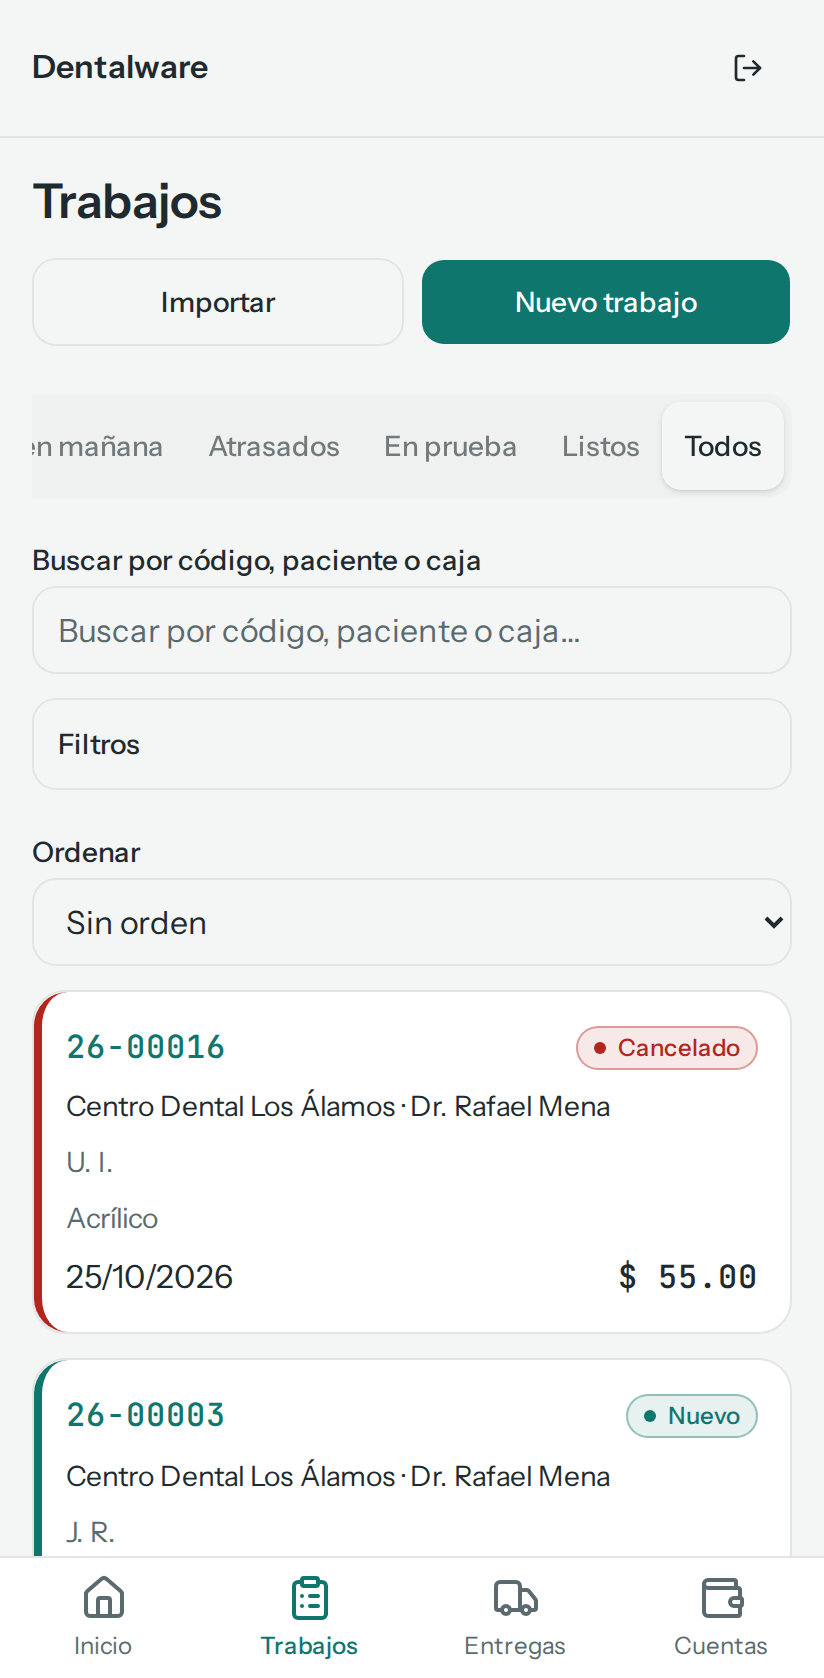
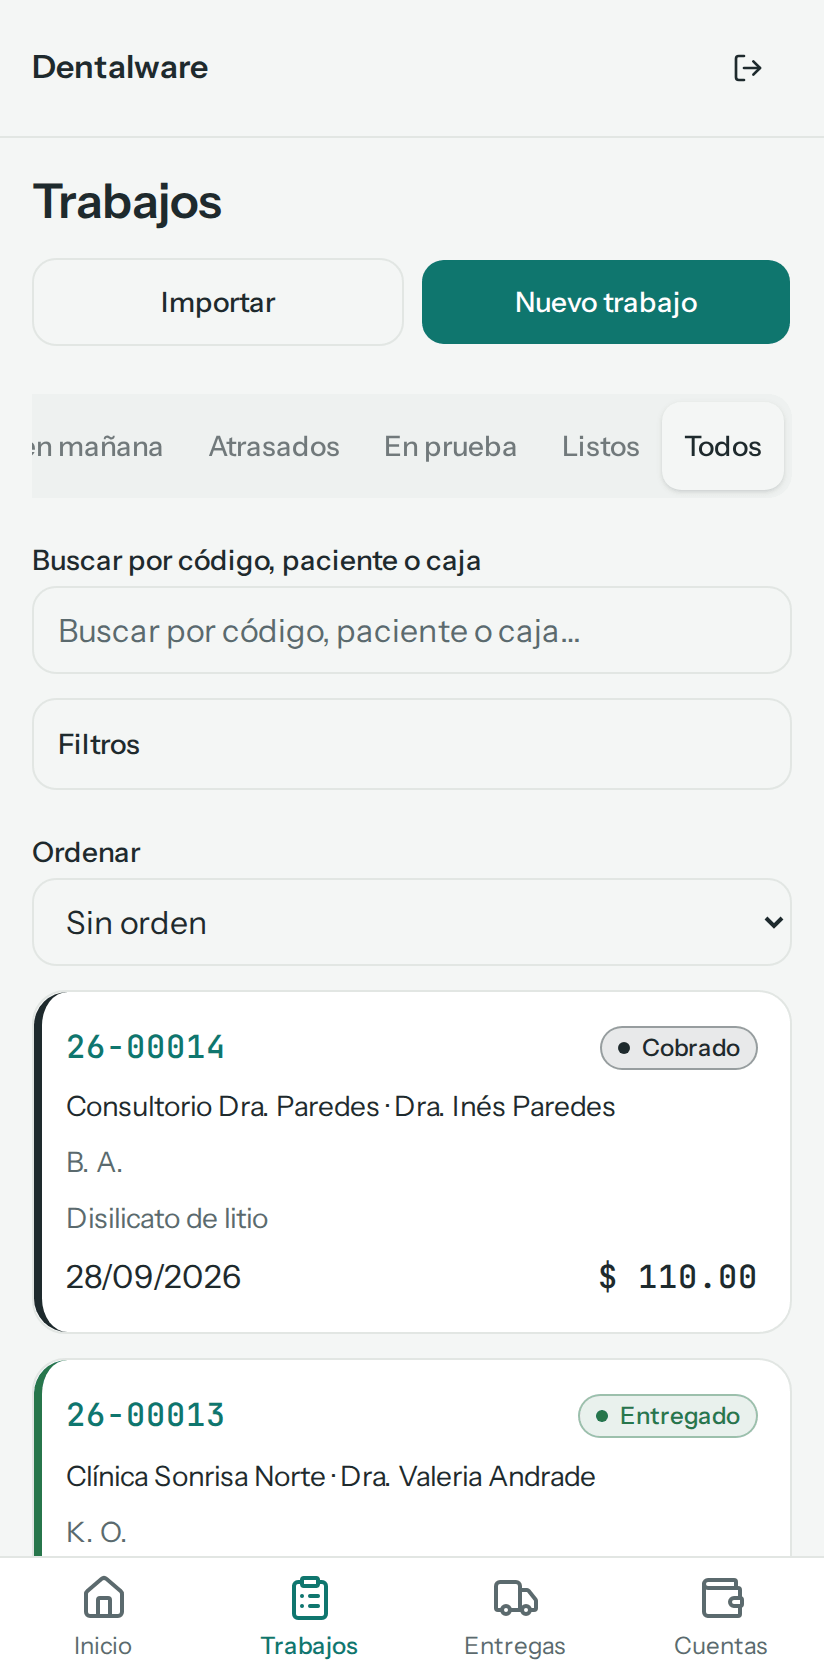
docs(manual): capturas y textos con las fechas comprometidas
Con el seed corregido, «Vencen hoy», «Vencen mañana» y «Atrasados» ya
tienen trabajos: cambian el inicio de recepción, la lista de trabajos,
los chips de estado, la cabecera de «A. S.» (comprometida hoy) y su orden
impresa. Las guías lo cuentan: «A. S.» vence hoy, «C. V.» mañana y
«L. T.» está atrasado, y la lista marca con un icono lo que vence hoy y
lo atrasado.

Refs #127

Claude-Session: https://claude.ai/code/session_01QWXyKd64kwAcEzKZeJy9Ue

diff --git a/apps/docs/docs/recepcion/la-ficha-del-trabajo.md b/apps/docs/docs/recepcion/la-ficha-del-trabajo.md
@@ -17,7 +17,7 @@ El técnico y el mensajero también abren la ficha, pero sin precios ni notas in
 ## Pasos
 
 1. Abre **Trabajos** y toca el código del trabajo (por ejemplo, 26-00004, del paciente «A. S.»). Puedes buscarlo por código, paciente o caja.
-2. Arriba está la **cabecera**: el código, el estado (aquí, «En proceso»), la clínica y el doctor, el botón <Boton>Avisar por WhatsApp</Boton> y, a la derecha, <Boton>Imprimir</Boton> y <Boton>Editar</Boton>. Debajo, el paciente y las fechas: **Ingreso** (cuando llegó), **Deseada** (la que pidió la clínica) y **Comprometida** (la que fijó el laboratorio al aceptarlo), y el **Total**.
+2. Arriba está la **cabecera**: el código, el estado (aquí, «En proceso», de un trabajo que vence hoy), la clínica y el doctor, el botón <Boton>Avisar por WhatsApp</Boton> y, a la derecha, <Boton>Imprimir</Boton> y <Boton>Editar</Boton>. Debajo, el paciente y las fechas: **Ingreso** (cuando llegó), **Deseada** (la que pidió la clínica) y **Comprometida** (la que fijó el laboratorio al aceptarlo), y el **Total**.
    <Captura nombre="recepcion/ficha-cabecera" alt="Cabecera de la ficha 26-00004 En proceso, de Clínica Sonrisa Norte, con paciente, fechas y total" telefono />
 3. Debajo está el panel de la fase en que va el trabajo. Se llama **Recogida** mientras el trabajo no llega al laboratorio, **Producción** mientras se hace y **Entrega** desde que se termina. En **Producción** se ve la **Fase** (Recepción, Modelo…) con <Boton>Avanzar fase</Boton> y <Boton>Retroceder fase</Boton>, el **Técnico responsable** y, al pie, las acciones del estado: <Boton>Pausar</Boton>, <Boton>Enviar a prueba</Boton>, <Boton>Finalizar</Boton> y, aparte, <Boton>Cancelar trabajo</Boton>. Qué hace cada una lo explica [Estados y acciones](./estados-y-acciones.md).
    <Captura nombre="recepcion/ficha-acciones" alt="Panel Producción: fase Recepción con Avanzar fase, técnico responsable Diego Técnico y las acciones Pausar, Enviar a prueba, Finalizar y Cancelar trabajo" telefono />

diff --git a/apps/docs/docs/primeros-pasos/entrar-y-salir.md b/apps/docs/docs/primeros-pasos/entrar-y-salir.md
@@ -18,8 +18,8 @@ Para usar Dentalware entras con tu correo y tu contraseña. Así la app sabe qui
 2. Escribe tu **Correo** y tu **Contraseña**. Te los da administración.
 3. Toca <Boton>Ingresar</Boton>.
    <Captura nombre="primeros-pasos/entrar-formulario" alt="Pantalla para entrar: correo, contraseña y el botón Ingresar" />
-4. Se abre **Inicio**. En recepción, con tu nombre arriba («Bienvenido, Carla Recepción») y los contadores del día: trabajos nuevos, en curso, los que vencen hoy o mañana, atrasados, en prueba, listos y las entregas de hoy. Toca un contador para ver esos trabajos; «Entregas de hoy» abre **Entregas**. Al pie, «Estado del servidor» dice si la app llega al servidor: si dice «API: sin conexión», revisa la señal o el wifi.
-   <Captura nombre="primeros-pasos/inicio-recepcion" alt="Inicio de recepción: contadores de trabajos nuevos, en curso, que vencen, atrasados, en prueba, listos y entregas de hoy" telefono />
+4. Se abre **Inicio**. En recepción, con tu nombre arriba («Bienvenido, Carla Recepción») y los contadores del día: trabajos nuevos, en curso, los que vencen hoy o mañana, atrasados, en prueba, listos y las entregas de hoy. En el ejemplo, un trabajo vence hoy, otro mañana y otro está atrasado. Toca un contador para ver esos trabajos; «Entregas de hoy» abre **Entregas**. Al pie, «Estado del servidor» dice si la app llega al servidor: si dice «API: sin conexión», revisa la señal o el wifi.
+   <Captura nombre="primeros-pasos/inicio-recepcion" alt="Inicio de recepción: 2 trabajos nuevos, 5 en curso, 1 que vence hoy, 1 que vence mañana, 1 atrasado, 1 en prueba, 4 listos y 4 entregas de hoy" telefono />
 
 El técnico ve primero «Mis trabajos» y el mensajero, sus recogidas y entregas de hoy. Lo explica [Qué ve cada rol](./que-ve-cada-rol.md).
 

diff --git a/apps/docs/docs/recepcion/crear-un-trabajo.md b/apps/docs/docs/recepcion/crear-un-trabajo.md
@@ -32,7 +32,7 @@ Cada orden que llega de una clínica se registra como un trabajo: quién lo pide
 
 Al guardar, un aviso dice «Trabajo creado» (o «Recogida programada») y se abre la [ficha del trabajo](./la-ficha-del-trabajo.md), con su código (por ejemplo, 26-00004). El trabajo nace **Nuevo**; con la recogida programada nace **Por recoger** y sale en **Entregas** el día de la recogida, para el mensajero que elegiste.
 
-Cuando ya no falta nada, toca <Boton>Aceptar</Boton> en la ficha: el trabajo pasa a **En proceso** y Dentalware fija la **fecha comprometida**, la que el laboratorio promete. Se cuenta en días hábiles desde el día en que lo aceptas, según el producto: los sábados y domingos no cuentan (los feriados, sí). Las vistas «Vencen hoy», «Vencen mañana» y «Atrasados» miran esa fecha (o la deseada, mientras el trabajo no se acepta).
+Cuando ya no falta nada, toca <Boton>Aceptar</Boton> en la ficha: el trabajo pasa a **En proceso** y Dentalware fija la **fecha comprometida**, la que el laboratorio promete. Se cuenta en días hábiles desde el día en que lo aceptas, según el producto: los sábados y domingos no cuentan (los feriados, sí). Las vistas «Vencen hoy», «Vencen mañana» y «Atrasados» miran esa fecha (o la deseada, mientras el trabajo no se acepta): por ejemplo, el trabajo de «A. S.» tiene la comprometida el 20/10/2026 y sale en «Vencen hoy».
 
 :::info Datos del paciente
 Dentalware guarda lo mínimo del paciente: una referencia (iniciales o un código), y la edad y el sexo si hacen falta. No escribas su nombre completo ni otros datos personales.

diff --git a/apps/docs/docs/recepcion/index.md b/apps/docs/docs/recepcion/index.md
@@ -16,7 +16,7 @@ Recepción lleva el trabajo de punta a punta: lo registra cuando llega, sigue su
 6. **Cobras.** En **Cuentas** ves cuánto debe cada clínica y registras sus pagos: [Cuentas y pagos](./cuentas-y-pagos.md).
 7. **Imprimes.** La orden de trabajo para el laboratorio y la clínica, y el estado de cuenta: [Imprimir](./imprimir.md).
 
-Empieza el día en **Inicio**: sus contadores (nuevos, en curso, vencen hoy, atrasados, entregas de hoy…) llevan directo a cada lista.
+Empieza el día en **Inicio**: sus contadores (nuevos, en curso, vencen hoy, vencen mañana, atrasados, entregas de hoy…) llevan directo a cada lista. En el laboratorio de ejemplo, hoy vence el trabajo de «A. S.», mañana el de «C. V.» y el de «L. T.» está atrasado.
 
 :::info Datos de ejemplo
 Las capturas de esta sección son de un laboratorio de demostración: las clínicas «Clínica Sonrisa Norte», «Centro Dental Los Álamos» y «Consultorio Dra. Paredes», sus pacientes (por iniciales, como «A. S.») y los mensajeros Marco y Lucía son ficticios.

diff --git a/apps/docs/docs/recepcion/estados-y-acciones.md b/apps/docs/docs/recepcion/estados-y-acciones.md
@@ -18,7 +18,9 @@ El técnico también puede <Boton>Finalizar</Boton>, y el mensajero, <Boton>Marc
 
 En la lista **Trabajos**, cada trabajo lleva su estado con su nombre y su color.
 
-<Captura nombre="recepcion/estados-chips" alt="Trabajos con su chip de estado: Cancelado, Nuevo, Enviado, Cobrado, Entregado y los demás" telefono />
+<Captura nombre="recepcion/estados-chips" alt="Trabajos con su chip de estado: Cobrado, Entregado, Enviado, En proceso, Terminado, En espera, En prueba, Nuevo, Cancelado y Por recoger" telefono />
+
+En la computadora, junto a la fecha de entrega, un reloj marca el trabajo que vence hoy («A. S.») y un círculo rojo con exclamación, el atrasado («L. T.»); deja el puntero encima para leer «Vence hoy» o «Atrasado».
 
 Cada estado, qué significa y qué acción lo mueve:
 
